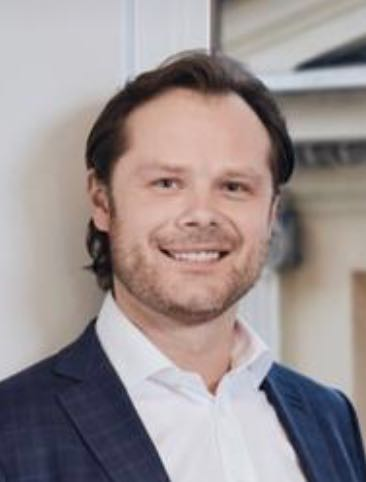
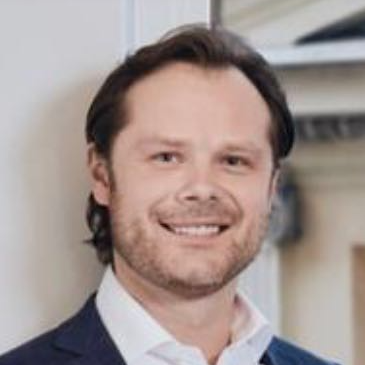
Fixed the photo on mobile

diff --git a/index.html b/index.html
@@ -841,7 +841,7 @@ the data-spy and data-target are part of the built-in Bootstrap scrollspy functi
                                 
                                 <div class="grid-mobile popover-wrapper">
                                     <p class="text-left popover-content popover-right-top">Blockchain experts provide blockchain training courses for multiple large and medium-sized enterprises, provide independent consulting for Nokia's R&D department for many years, and participate in Nokia's blockchain and 5G research projects. The first online application of blockchain technology is offered in the Nordic region. Participate in the development of Ethereum and hold a patent for e-citizen platform based on password technology. Proficient in multi-development languages, mainstream development frameworks, open source databases, caching and message queues, and multi-threaded web development. Responsible for locking secret program design.</p>
-                                    <img src="https://via.placeholder.com/100x100" class="rounded-circle" alt="Kimmo Sipilä">
+                                    <img src="assets/images/KimmoSipila.png" class="rounded-circle" alt="Kimmo Sipilä">
                                     <h4>Kimmo Sipilä</h4>
                                     <p>Blockchain Expert</p>
 
@@ -976,7 +976,7 @@ the data-spy and data-target are part of the built-in Bootstrap scrollspy functi
                  
                         <div class="grid-mobile">
                             <div class="card"> 
-                                <img src="https://via.placeholder.com/200x200" alt="Thomas Bennet">
+                                <img src="assets/images/ThomasBennet.jpg" alt="Thomas Bennet">
                                 <div class="card-container"> 
                                     <h4>Thomas Bennet</h4>
                                     <p>Amazon UK Supplychain Vendor Director</p>
